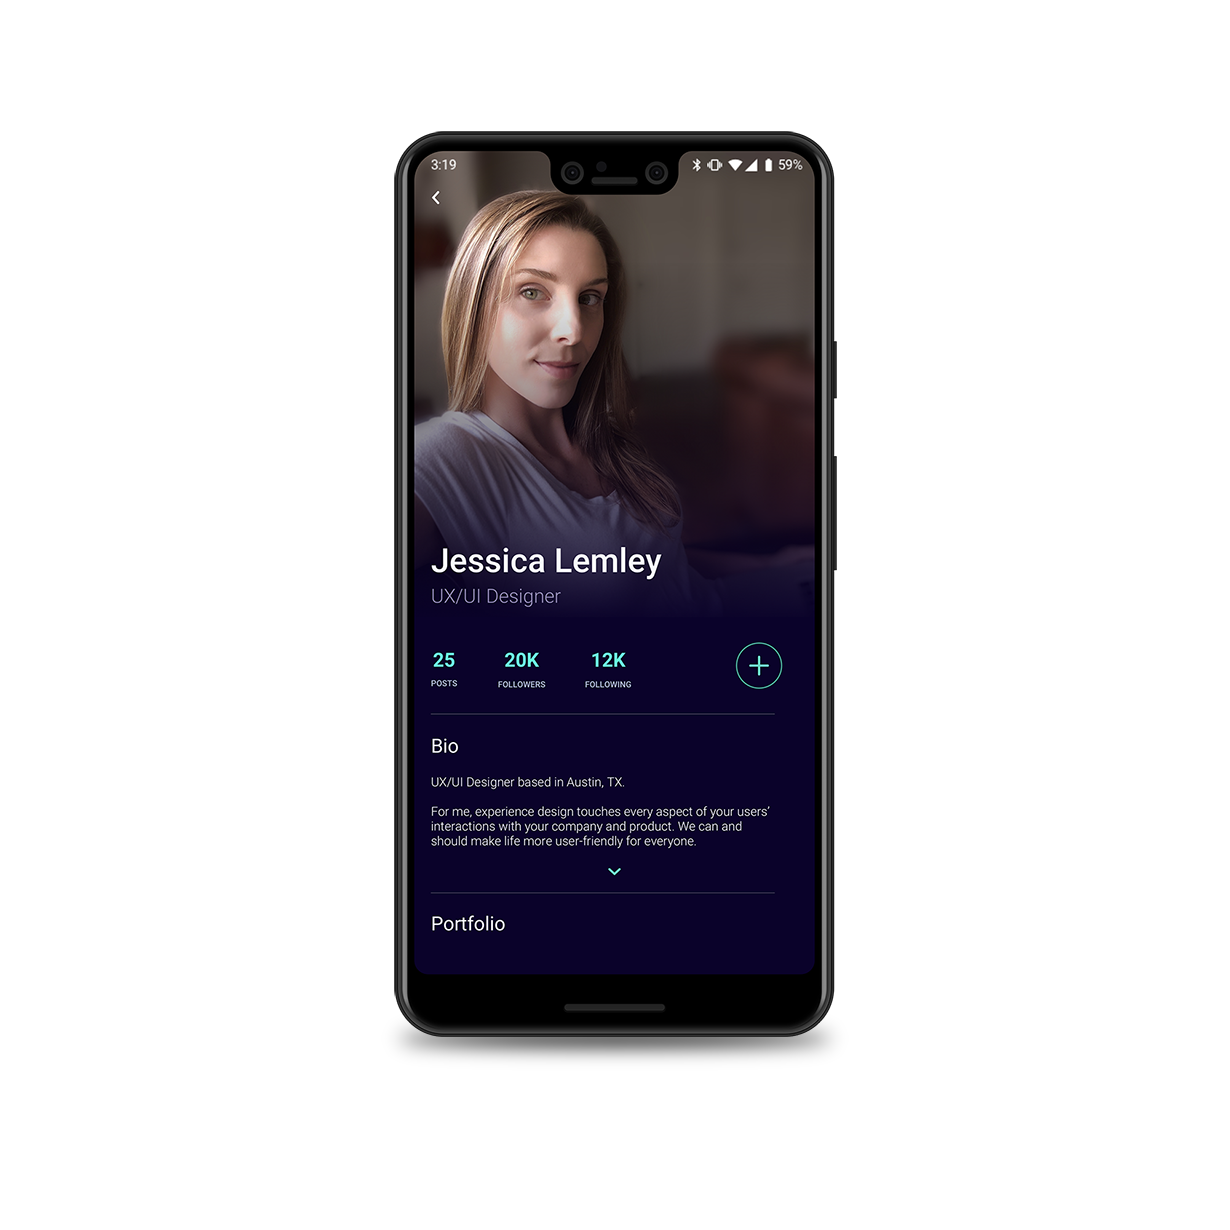
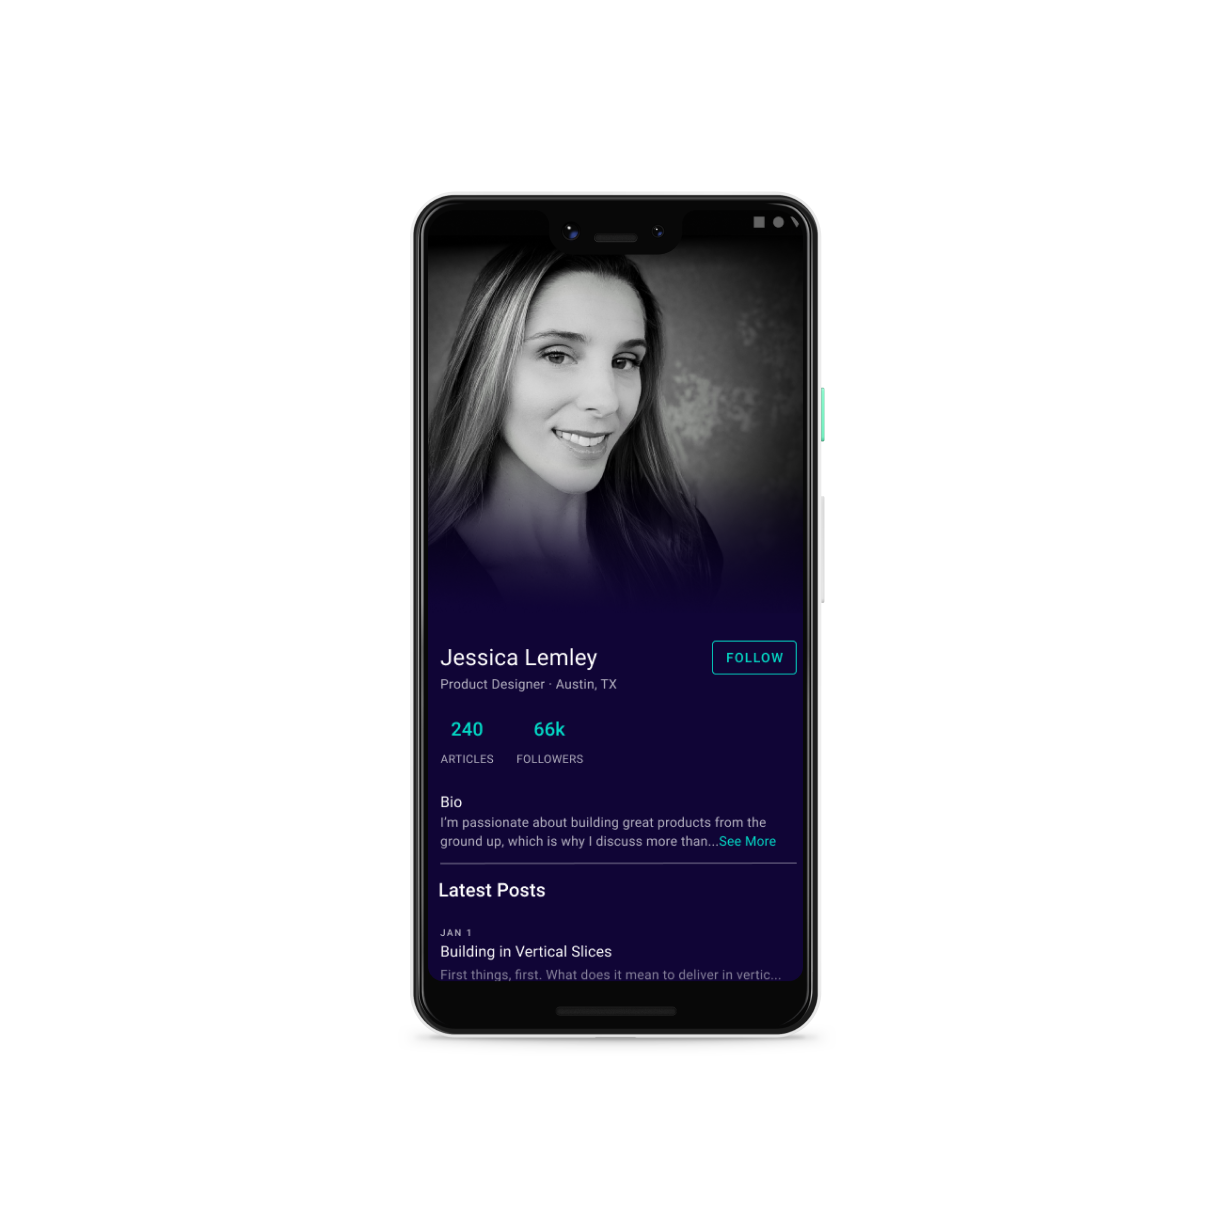
update portfolio, about image and job title

Changed region(s): [[0.3089, 0.0927, 0.6797, 0.865]]

diff --git a/work.html b/work.html
@@ -112,6 +112,24 @@
             </div>
             <div id="content" style="background-color: white">
                 <section id="work" class="container">
+
+                    <div class="row">
+                        <div class="case-study-img-left col-xs-12 col-md-6 mb-4">
+                            <a href="tackling_todos.html">
+                                <img src="images/jointly_case_cover.png" class="img-fluid" alt="task manager app">
+                            </a>
+                        </div>
+                        <div class="case-study-right col-sm-12 col-md-6 mb-4">
+                            <h3 class="mb-4">Revolutionizing Real Estate</h3>
+                            <p>A solution to elevate the transaction experience for agents and their clients</p>
+                            <div class="text-center text-md-right">
+                                <a href="https://jointly.com" target="_blank">
+                                    <button type="button" class="btn btn-outline-primary mt-3 mb-5">Jointly.com</button>
+                                </a>
+                            </div>
+                        </div>
+                    </div>
+
                     <div class="row d-flex flex-md-row-reverse">
                         <div class="case-study-img-right col-xs-12 col-md-6 mb-4">
                             <a href="decluttering_crypto.html">

diff --git a/index.html b/index.html
@@ -97,7 +97,7 @@
                     <img src="images/banner_icon_home.svg" alt="ux ui icon">
                 </div>
                 <div class="c_banner_headline">
-                    <h3>UX/UI Designer</h3>
+                    <h3>Product Designer</h3>
                 </div>
                 <div class="c_banner_para">
                     <p>I make life more user-friendly by turning tedious tasks into engaging, meaningful
